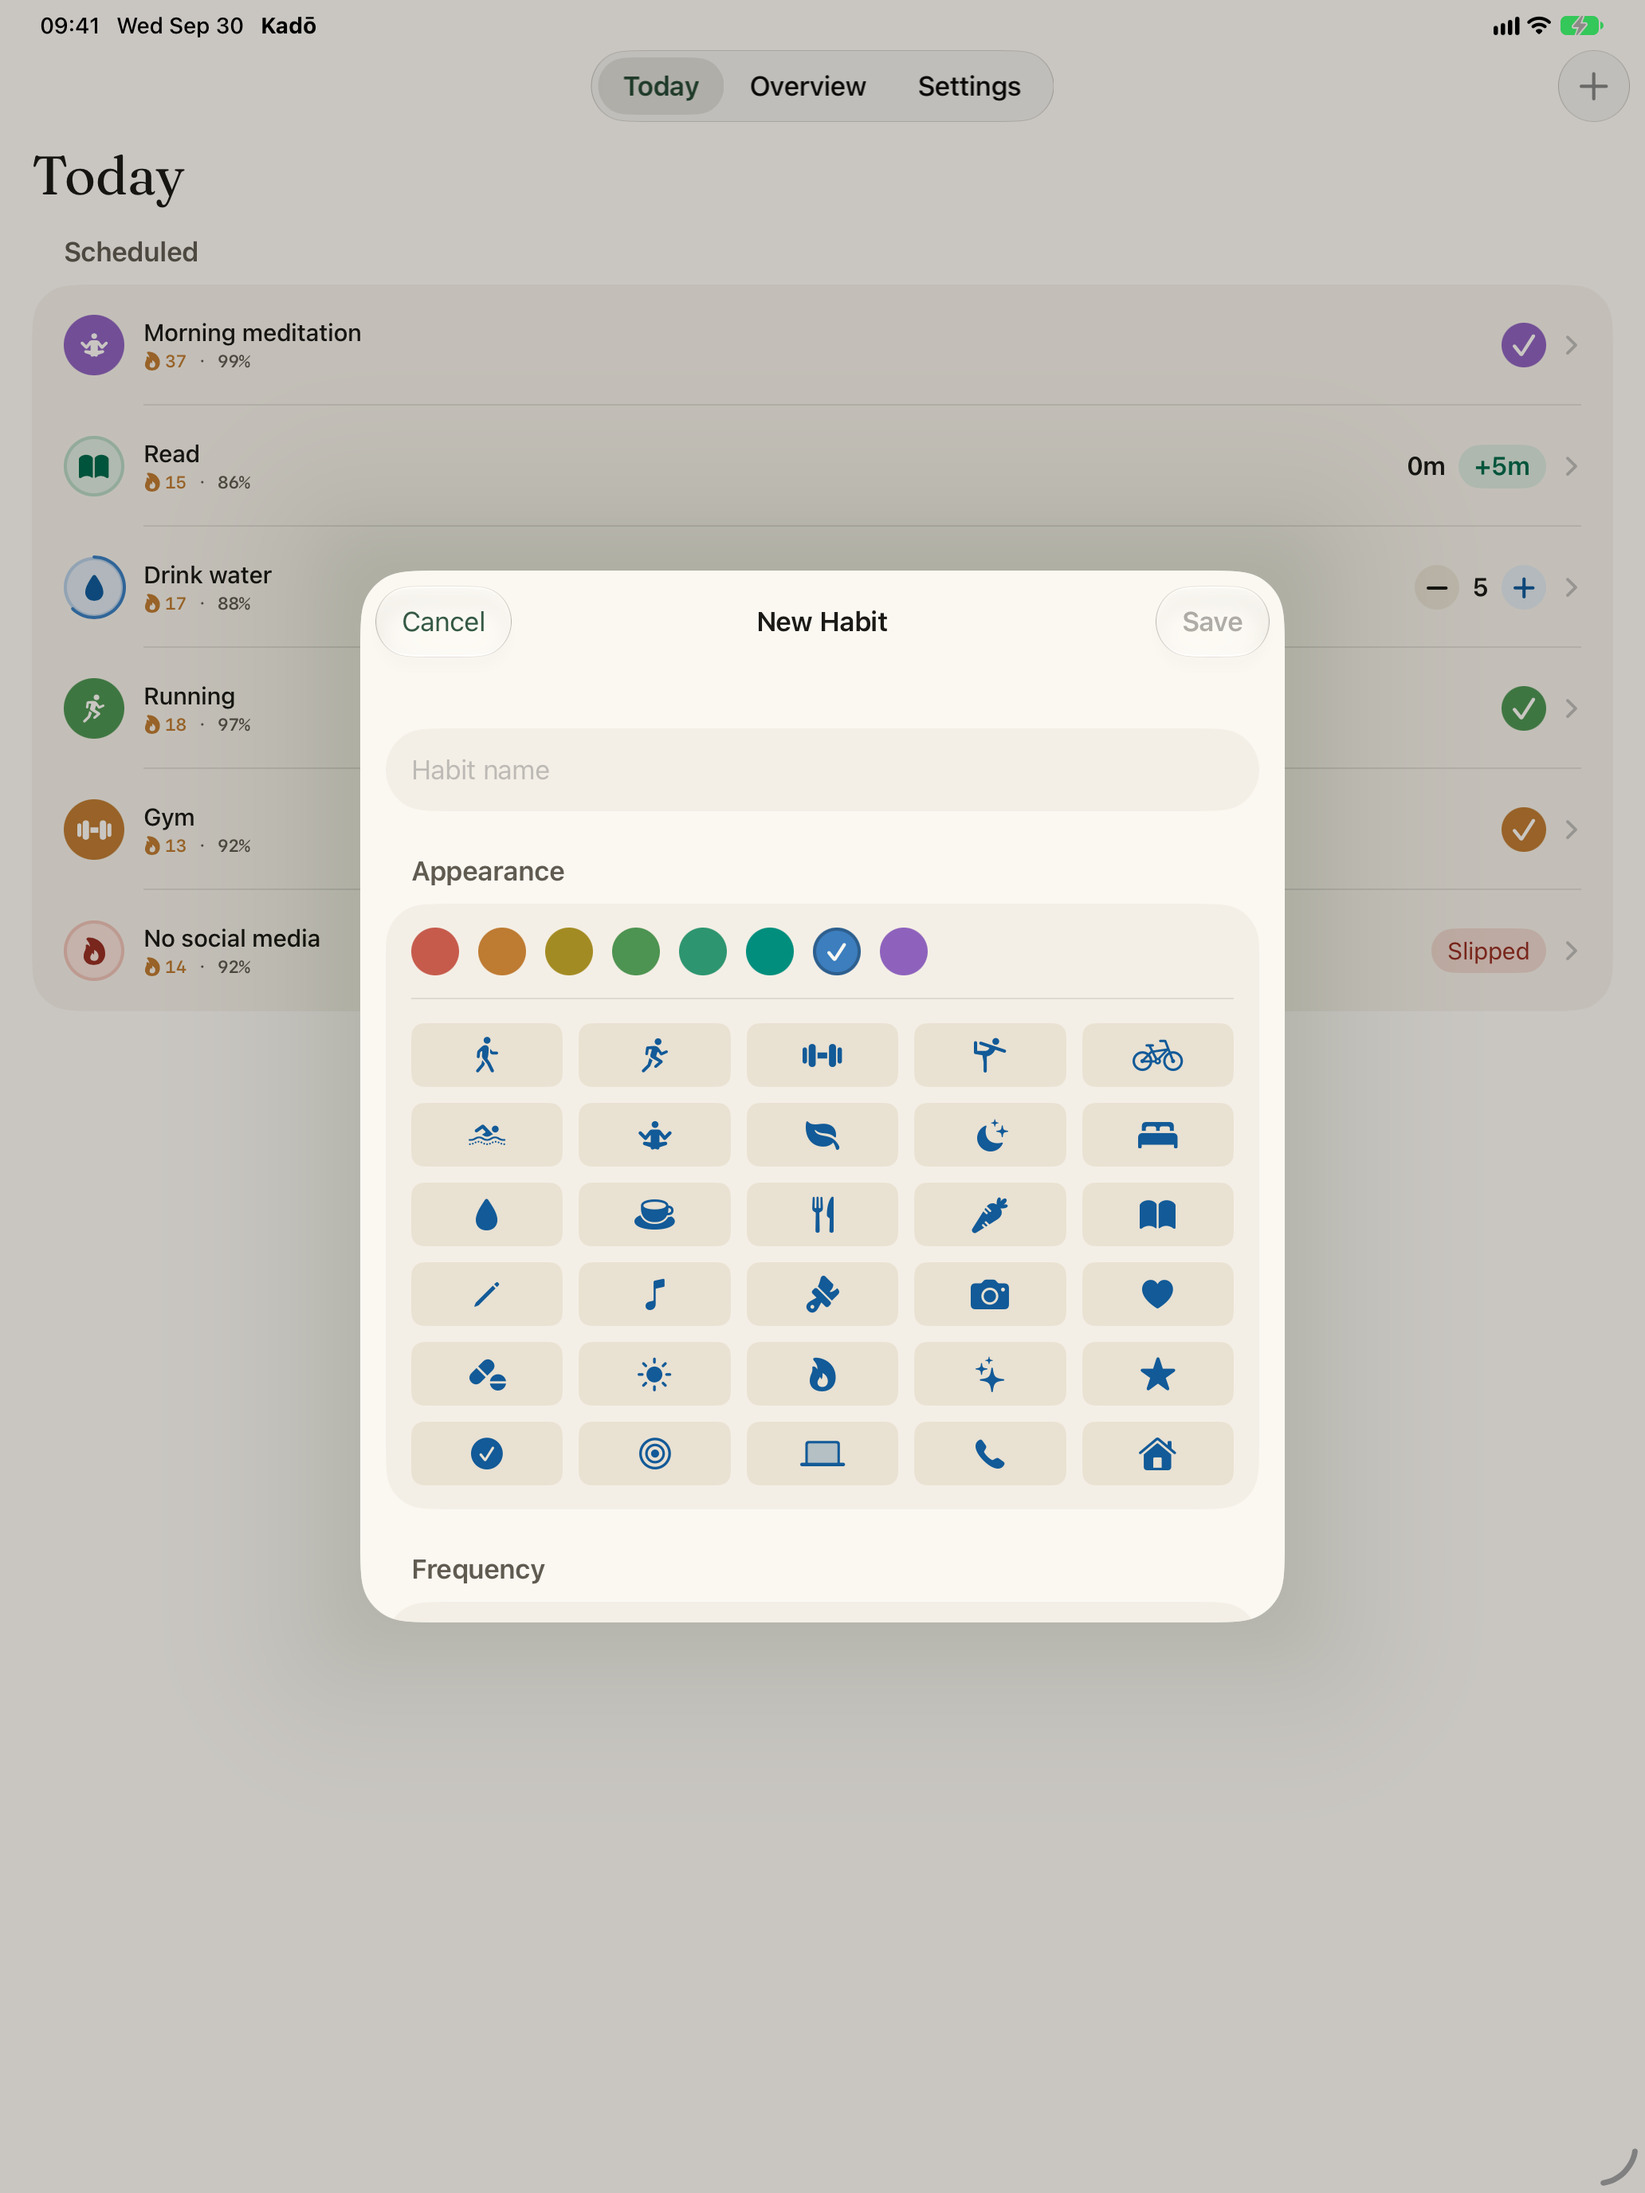
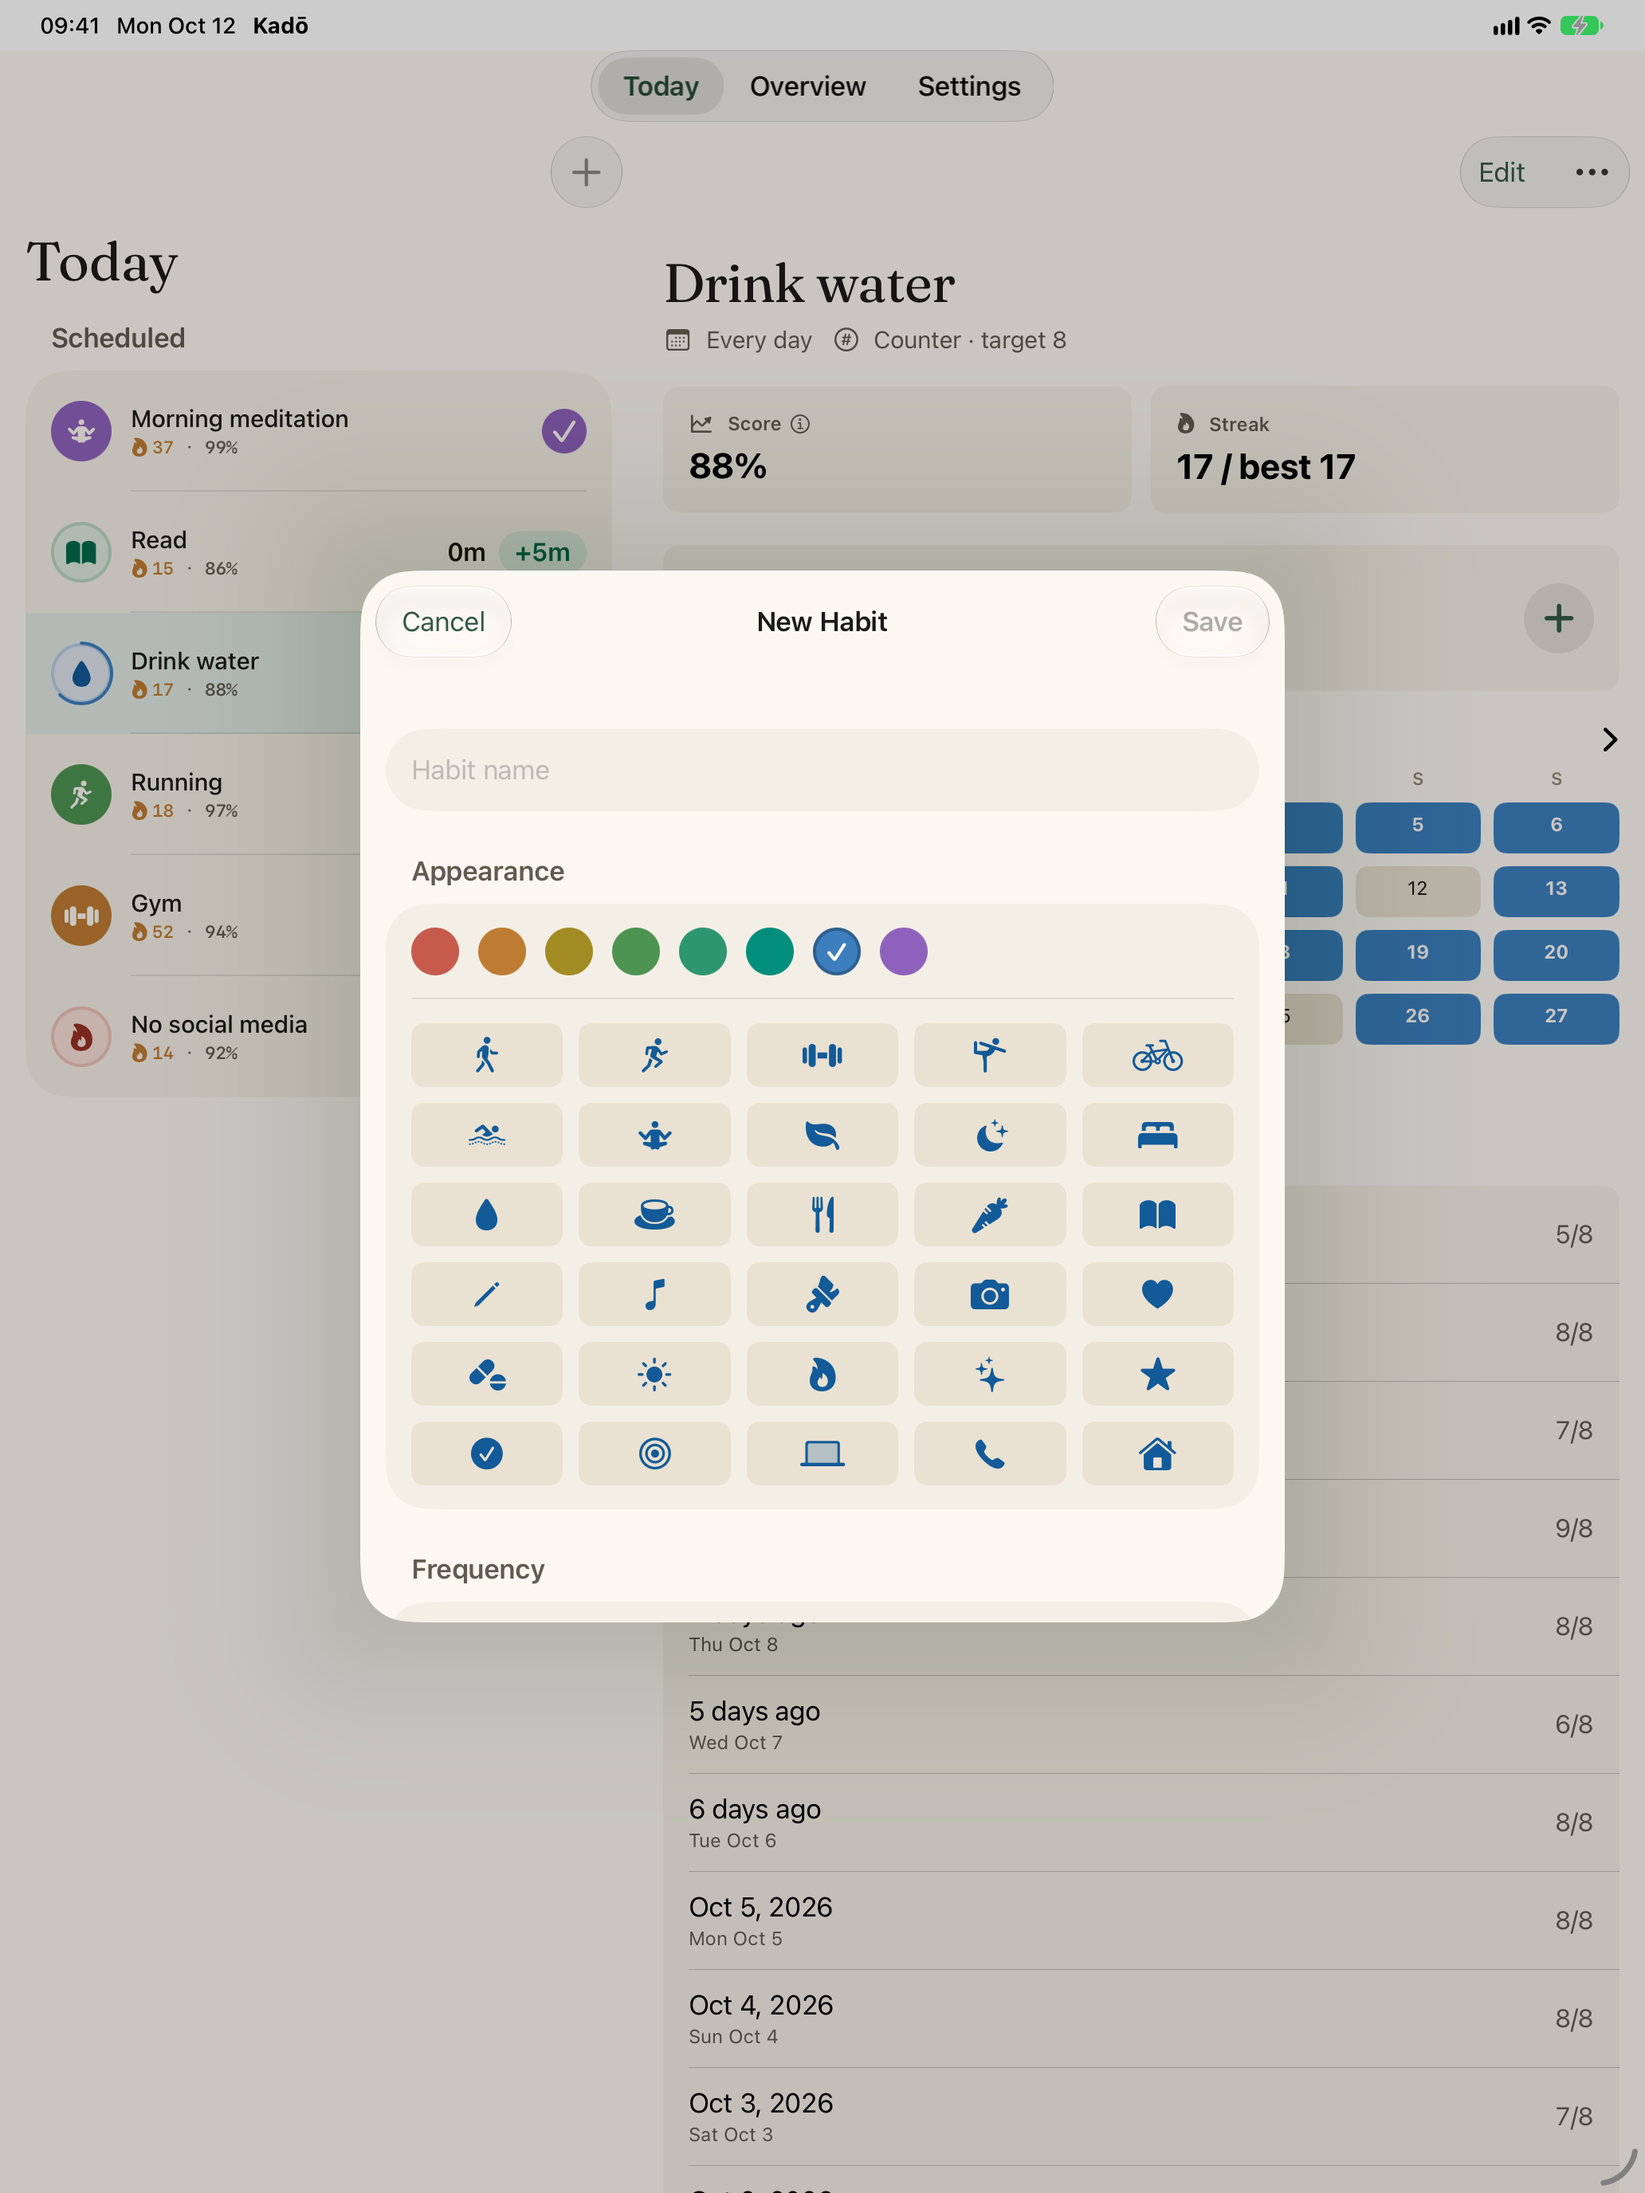
feat(listing): re-capture the iPad set on the split layout, prepare inner-display Duo shots
- iPad screenshots re-captured on #143's list + detail layout (en-CA,
  fr-FR, light and dark). In the split layout 02 opens the counter habit,
  since the first habit's detail is already on screen in 01.
- iphone-duo moves to the Duo's inner display in landscape (2853x2007),
  marked `unfolded`: screenshots.sh boots it once without the per-language
  reboot (a reboot folds it again) and stops unless the inner display is
  lit. frame-screenshots.swift gets a landscape Duo profile and a one-row
  widget assembly. The Duo captures themselves are still to come.
- appstore.py screenshots --devices limits an upload to some devices, and
  never reports or prunes the configured groups it skips.

Refs #142

diff --git a/Scripts/frame-screenshots.swift b/Scripts/frame-screenshots.swift
@@ -161,20 +161,20 @@ struct Profile {
                 assembly: .twoColumns
             )
         case "iphone-duo":
-            // The iPhone Duo's outer display: wider than a phone, narrower than an iPad. The
-            // device is sized to the canvas's height rather than its width — at the phone's 0.80
-            // the screen would run off the bottom — and the widget tiles take the iPad's two
-            // columns, since one column would be a strip down the middle of a canvas this wide.
+            // The iPhone Duo's inner display, unfolded and in landscape: the one canvas in the
+            // set that is wider than it is tall. The device is sized so its screen clears the
+            // canvas's bottom under a two-line headline, and the widget tiles go in one row —
+            // either portrait arrangement, scaled to this width, would be taller than the canvas.
             return Profile(
-                canvas: NSSize(width: 1398, height: 2034),
-                screenWidthFraction: 0.74,
-                cornerFraction: 0.09,
-                bezel: 14,
-                headlineSize: 84,
-                headlineTop: 130,
+                canvas: NSSize(width: 2853, height: 2007),
+                screenWidthFraction: 0.66,
+                cornerFraction: 0.035,
+                bezel: 18,
+                headlineSize: 110,
+                headlineTop: 120,
                 headlineGap: 90,
-                headlineMargin: 110,
-                assembly: .twoColumns
+                headlineMargin: 220,
+                assembly: .wide
             )
         default:
             return nil
@@ -258,6 +258,26 @@ struct Assembly {
             // A touch over 1:1 on the 3× tiles — 1.03 — which is invisible at this size, and
             // buys the arrangement enough of the canvas not to float in the top half.
             widthFraction: 0.84
+        )
+    }()
+
+    /// The landscape canvas — the iPhone Duo's inner display — is wider than it is tall, and
+    /// both arrangements above would overflow it once scaled to its width. One row instead:
+    /// the large tile, then the medium over the small, then the lock card, tops aligned.
+    static let wide: Assembly = {
+        let gap = Assembly.gap
+        let middle = Tile.large.size.width + gap
+        let right = middle + Tile.medium.size.width + gap
+        return Assembly(
+            placements: [
+                (.large, NSPoint(x: 0, y: 0)),
+                (.medium, NSPoint(x: middle, y: 0)),
+                (.small, NSPoint(x: middle, y: Tile.medium.size.height + gap)),
+                (.lock, NSPoint(x: right, y: 0)),
+            ],
+            size: NSSize(width: right + Tile.lock.size.width, height: Tile.large.size.height),
+            // ~2.6× on the 3× tiles: still a downscale, so nothing goes soft.
+            widthFraction: 0.86
         )
     }()
 }

diff --git a/KadoUITests/ScreenshotTests.swift b/KadoUITests/ScreenshotTests.swift
@@ -32,7 +32,16 @@ final class ScreenshotTests: KadoUITestCase {
 
         // 2 — one habit's detail: the score, the streak, and the
         // monthly calendar underneath. The differentiator shot.
-        todayRows(in: app).firstMatch.tap()
+        //
+        // In regular width (iPad, the Duo's inner display) Today already
+        // shows the first habit's detail beside the list (#143), so
+        // opening that one again would make 02 the same picture as 01
+        // with a different month. There it opens the counter habit
+        // instead — partial days and a score short of 100%, which is
+        // what the headline over this shot is about. On a phone the
+        // first row stays, so that set doesn't move.
+        let splitLayout = app.buttons[AccessibilityID.HabitDetail.scoreCard].exists
+        (splitLayout ? todayRows(in: app).element(boundBy: 2) : todayRows(in: app).firstMatch).tap()
         assertReached(
             app.buttons[AccessibilityID.HabitDetail.scoreCard],
             "Tapping a Today row should push the habit's detail screen."

diff --git a/Scripts/appstore.py b/Scripts/appstore.py
@@ -944,12 +944,20 @@ def configured_groups(reference: dict, config: dict) -> dict[str, str]:
 
 def push_screenshots(
     client: Client, config: dict, locales: list[str], wanted_version: str | None,
-    prune: bool = False,
+    prune: bool = False, devices: list[str] | None = None,
 ):
     app, version = version_for_placements(client, config, wanted_version, "screenshots")
     library_id = client.get(f"/v1/apps/{app['id']}/assetLibrary")["data"]["id"]
     reference = reference_data(client)
     groups = configured_groups(reference, config)
+    # Every configured group, whether or not this run sends it: a device left out with
+    # `--devices` is still config.json's, and must not be reported — or pruned — as a stray.
+    configured = set(groups.values())
+    if devices:
+        unknown = sorted(set(devices) - set(groups))
+        if unknown:
+            fail(f"config.json has no device {', '.join(unknown)} (it has {', '.join(groups)})")
+        groups = {device: group for device, group in groups.items() if device in devices}
     version_localizations = localizations(
         client, f"/v1/appStoreVersions/{version['id']}/appStoreVersionLocalizations"
     )
@@ -1082,7 +1090,7 @@ def push_screenshots(
         # and scales from there, so a stale smaller-iPhone group beside a fresh large one means
         # two people see two listings, one of them out of date. Hence the flag.
         for group, placements in sorted(current[locale].items()):
-            if group in plans[locale]:
+            if group in plans[locale] or group in configured:
                 continue
             if not prune:
                 print(
@@ -1298,6 +1306,11 @@ def main() -> int:
     )
     parser.add_argument(
         # `--prune-sets` is the name from before the asset library, when a device was a set.
+        "--devices", nargs="+",
+        help="screenshots: only these config.json devices, e.g. --devices ipad-13 "
+        "(default: all of them); the others' screenshots are left as they are",
+    )
+    parser.add_argument(
         "--prune-groups", "--prune-sets", dest="prune_groups", action="store_true",
         help="also remove screenshots in placement groups the listing has that config.json "
         "does not",
@@ -1347,7 +1360,8 @@ def main() -> int:
         if arguments.command == "all":
             print()
         push_screenshots(
-            client, config, locales, arguments.version, prune=arguments.prune_groups
+            client, config, locales, arguments.version, prune=arguments.prune_groups,
+            devices=arguments.devices,
         )
     if arguments.command in ("creative", "all"):
         if arguments.command == "all":
